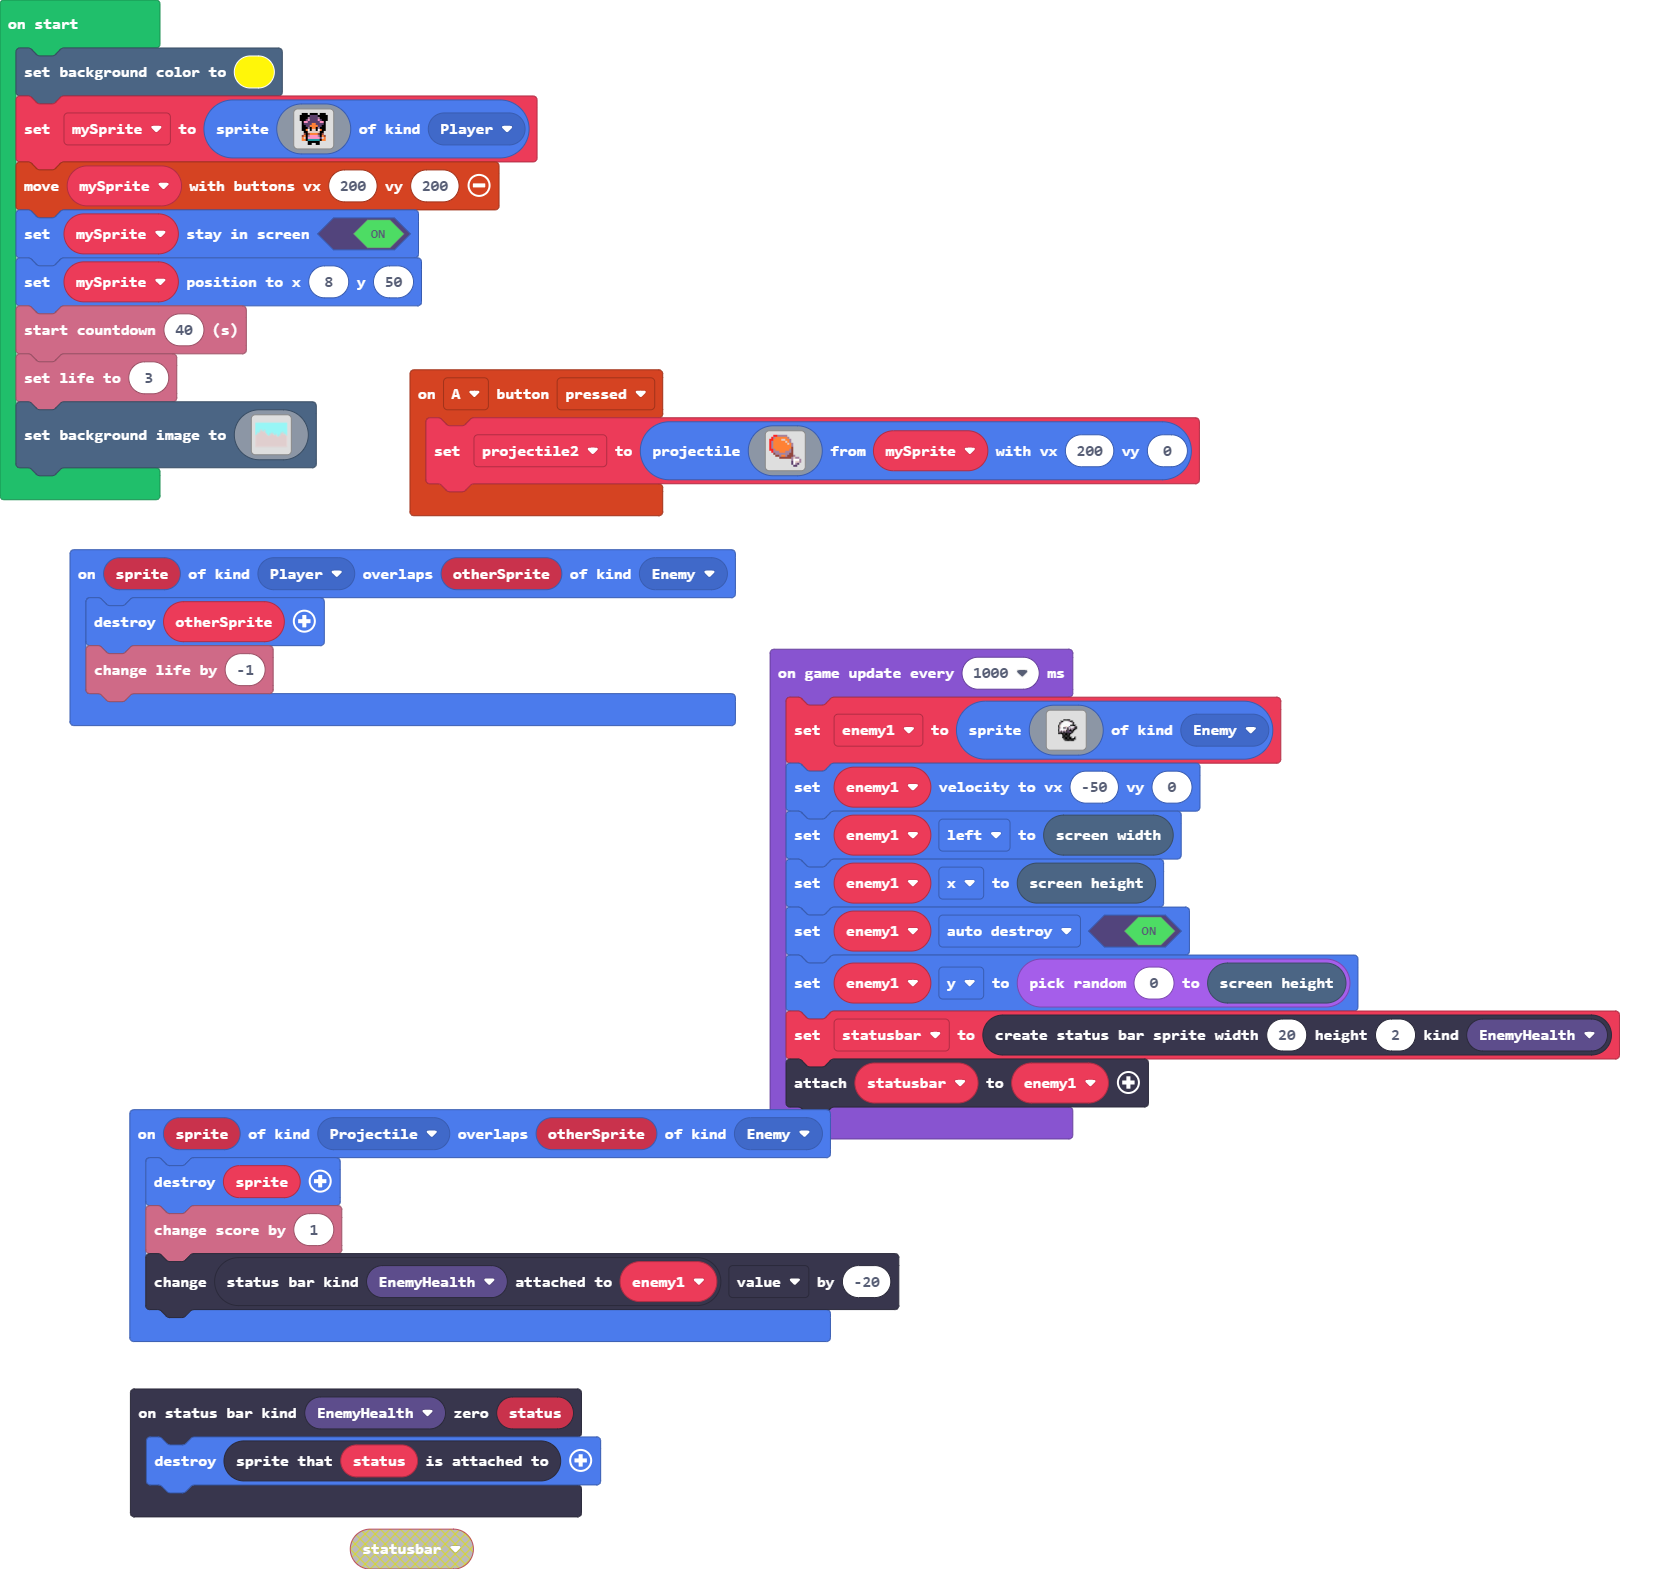
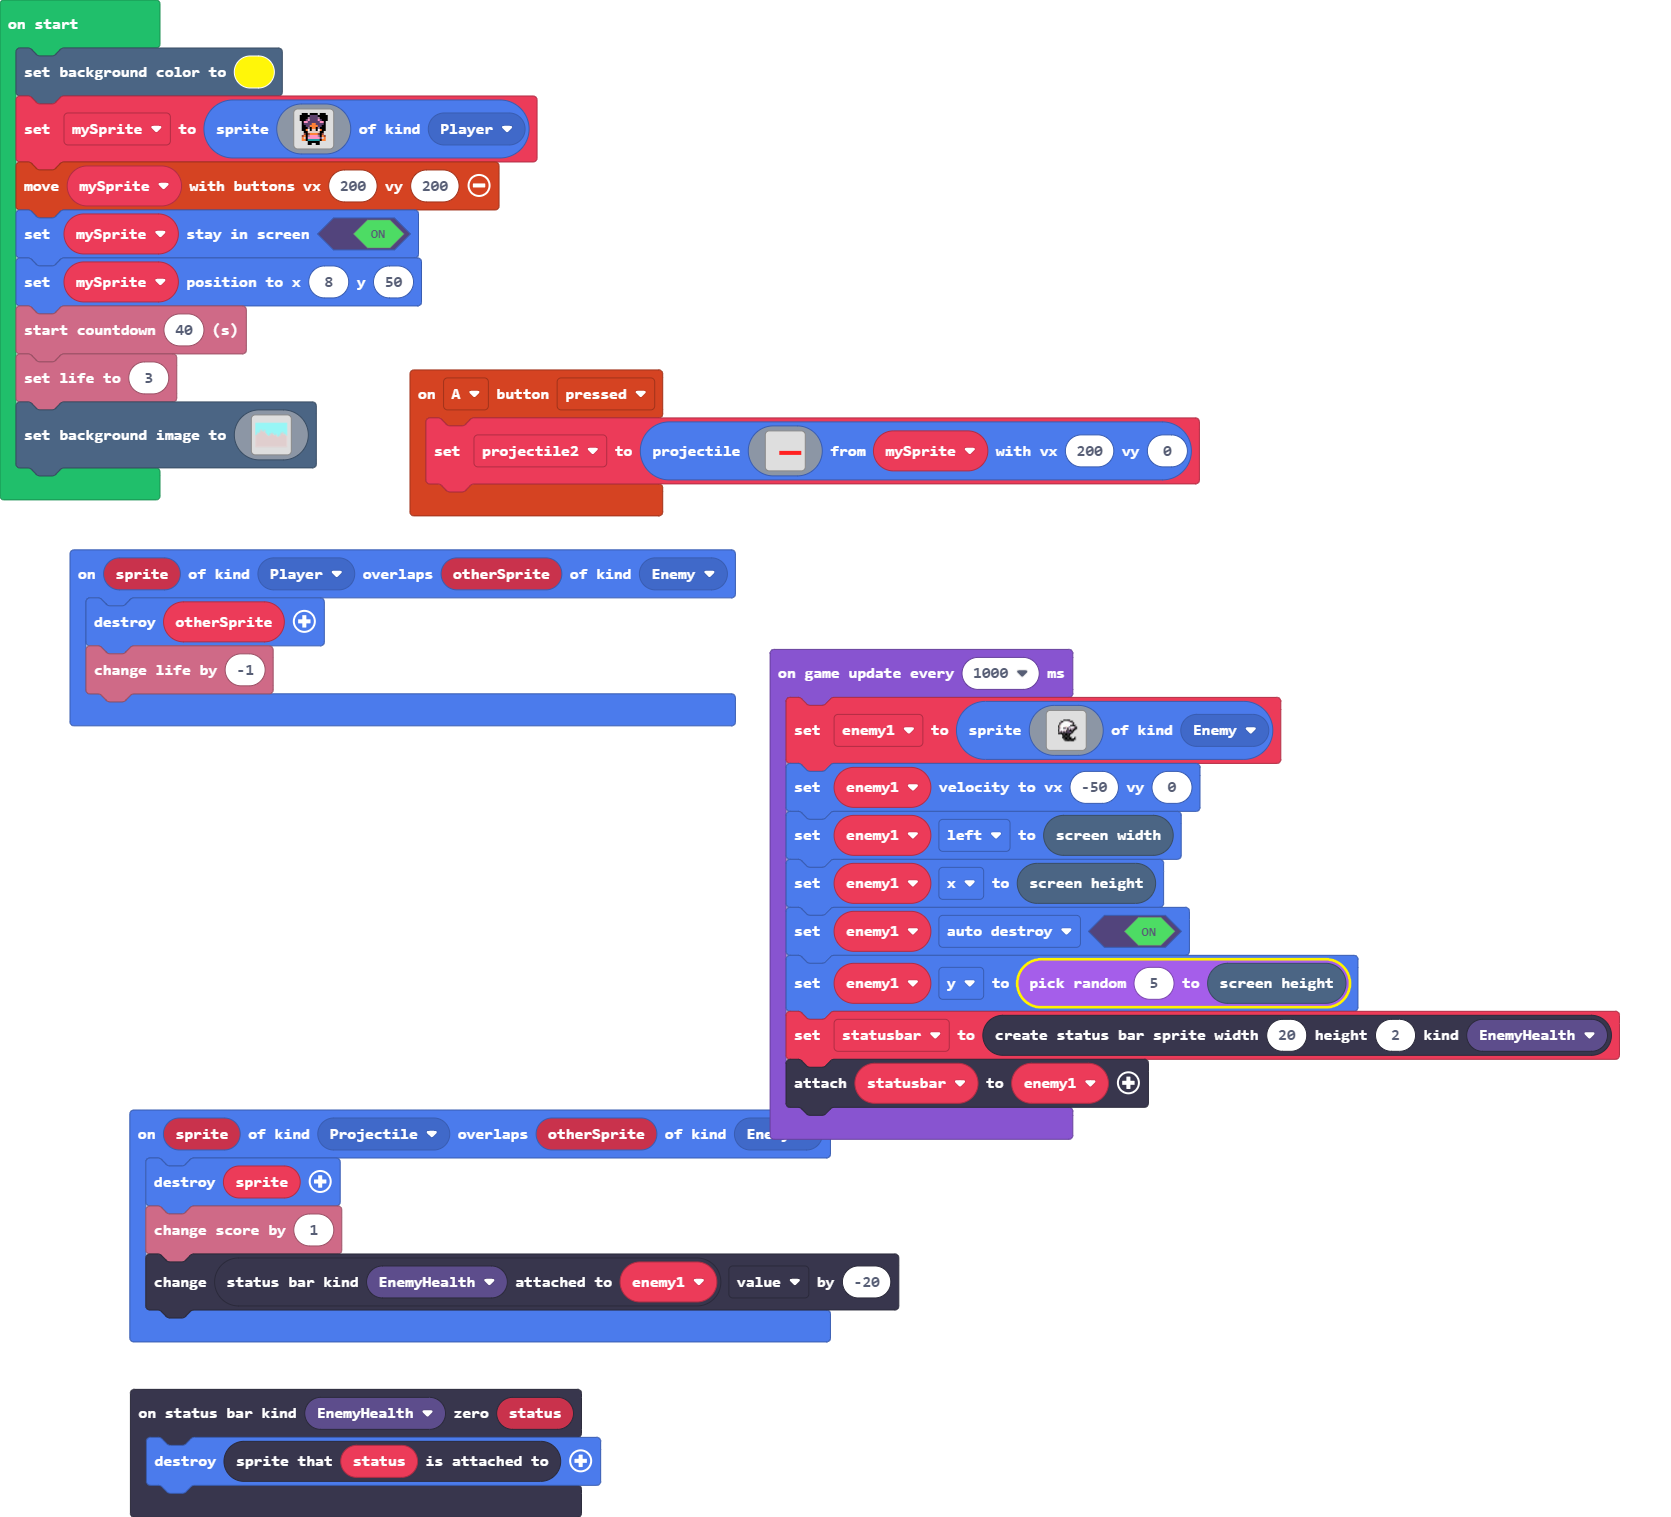
Update main.blocks, main.ts, images.g.jres, images.g.ts

Changed region(s): [[0.0, 0.031, 0.9958, 1.0]]

diff --git a/main.ts b/main.ts
@@ -1,21 +1,21 @@
 controller.A.onEvent(ControllerButtonEvent.Pressed, function () {
     projectile2 = sprites.createProjectileFromSprite(img`
-        . . 2 2 b b b b b . . . . . . . 
-        . 2 b 4 4 4 4 4 4 b . . . . . . 
-        2 2 4 4 4 4 d d 4 4 b . . . . . 
-        2 b 4 4 4 4 4 4 d 4 b . . . . . 
-        2 b 4 4 4 4 4 4 4 d 4 b . . . . 
-        2 b 4 4 4 4 4 4 4 4 4 b . . . . 
-        2 b 4 4 4 4 4 4 4 4 4 e . . . . 
-        2 2 b 4 4 4 4 4 4 4 b e . . . . 
-        . 2 b b b 4 4 4 b b b e . . . . 
-        . . e b b b b b b b e e . . . . 
-        . . . e e b 4 4 b e e e b . . . 
-        . . . . . e e e e e e b d b b . 
-        . . . . . . . . . . . b 1 1 1 b 
-        . . . . . . . . . . . c 1 d d b 
-        . . . . . . . . . . . c 1 b c . 
-        . . . . . . . . . . . . c c . . 
+        . . . . . . . . . . . . . . . . 
+        . . . . . . . . . . . . . . . . 
+        . . . . . . . . . . . . . . . . 
+        . . . . . . . . . . . . . . . . 
+        . . . . . . . . . . . . . . . . 
+        . . . . . . . . . . . . . . . . 
+        . . . . . . . . . . . . . . . . 
+        . . . . . . . . . . . . . . . . 
+        . . . . . 2 2 2 2 2 2 2 2 2 2 2 
+        . . . . . 2 2 2 2 2 2 2 2 2 2 2 
+        . . . . . . . . . . . . . . . . 
+        . . . . . . . . . . . . . . . . 
+        . . . . . . . . . . . . . . . . 
+        . . . . . . . . . . . . . . . . 
+        . . . . . . . . . . . . . . . . 
+        . . . . . . . . . . . . . . . . 
         `, mySprite, 200, 0)
 })
 statusbars.onZero(StatusBarKind.EnemyHealth, function (status) {
@@ -211,7 +211,7 @@ game.onUpdateInterval(1000, function () {
     enemy1.left = scene.screenWidth()
     enemy1.x = scene.screenHeight()
     enemy1.setFlag(SpriteFlag.AutoDestroy, true)
-    enemy1.y = randint(0, scene.screenHeight())
+    enemy1.y = randint(5, scene.screenHeight())
     statusbar = statusbars.create(20, 2, StatusBarKind.EnemyHealth)
     statusbar.attachToSprite(enemy1)
 })

diff --git a/images.g.ts b/images.g.ts
@@ -170,22 +170,22 @@ dddddddddddddddddddddddddddddddddddddddddddddddddddddddddddddddddddddddddddddddd
 dddddddddddddddddddddddddddddddddddddddddddddddddddddddddddddddddddddddddddddddddddddddddddddddddddddddddddddddddddddddddddddddddddddddddddddddddddddddddddddddd
 `;
             case "image5":return img`
-. . 2 2 b b b b b . . . . . . . 
-. 2 b 4 4 4 4 4 4 b . . . . . . 
-2 2 4 4 4 4 d d 4 4 b . . . . . 
-2 b 4 4 4 4 4 4 d 4 b . . . . . 
-2 b 4 4 4 4 4 4 4 d 4 b . . . . 
-2 b 4 4 4 4 4 4 4 4 4 b . . . . 
-2 b 4 4 4 4 4 4 4 4 4 e . . . . 
-2 2 b 4 4 4 4 4 4 4 b e . . . . 
-. 2 b b b 4 4 4 b b b e . . . . 
-. . e b b b b b b b e e . . . . 
-. . . e e b 4 4 b e e e b . . . 
-. . . . . e e e e e e b d b b . 
-. . . . . . . . . . . b 1 1 1 b 
-. . . . . . . . . . . c 1 d d b 
-. . . . . . . . . . . c 1 b c . 
-. . . . . . . . . . . . c c . . 
+. . . . . . . . . . . . . . . . 
+. . . . . . . . . . . . . . . . 
+. . . . . . . . . . . . . . . . 
+. . . . . . . . . . . . . . . . 
+. . . . . . . . . . . . . . . . 
+. . . . . . . . . . . . . . . . 
+. . . . . . . . . . . . . . . . 
+. . . . . . . . . . . . . . . . 
+. . . . . 2 2 2 2 2 2 2 2 2 2 2 
+. . . . . 2 2 2 2 2 2 2 2 2 2 2 
+. . . . . . . . . . . . . . . . 
+. . . . . . . . . . . . . . . . 
+. . . . . . . . . . . . . . . . 
+. . . . . . . . . . . . . . . . 
+. . . . . . . . . . . . . . . . 
+. . . . . . . . . . . . . . . . 
 `;
         }
         return null;
